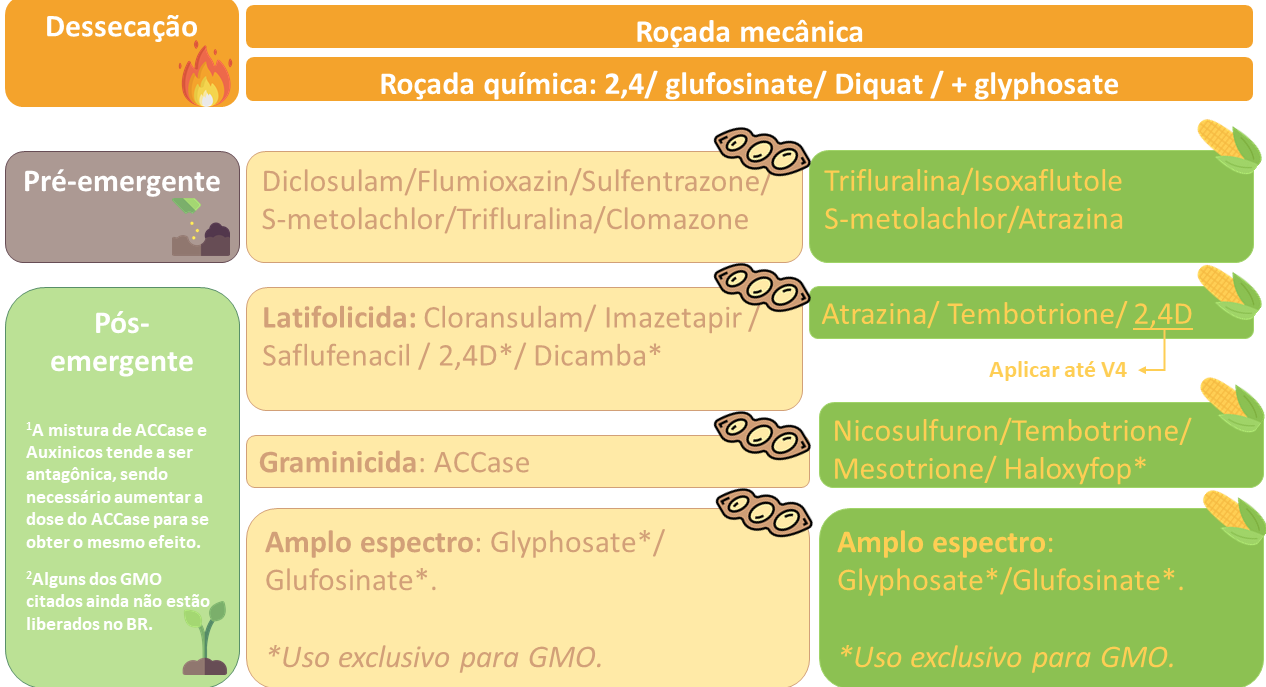
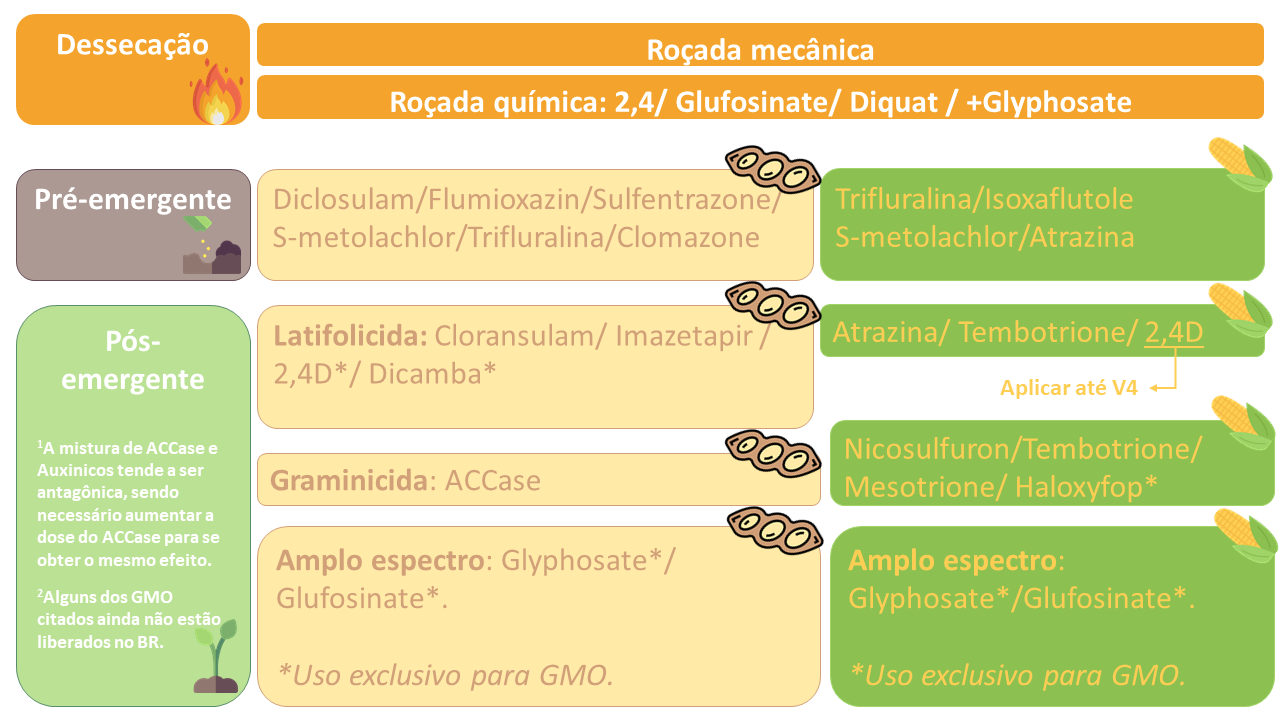
buva altura

Changed region(s): [[0.0, 0.0, 1.0, 1.0], [0.0616, 0.4585, 0.1232, 0.4891]]

diff --git a/docs/resistenceofweeds.html b/docs/resistenceofweeds.html
@@ -191,12 +191,16 @@ Yu, Qin, et al. 2015.
 ---
 class: inverse, middle
 
-# Manejo "Apaga fogo"  🔥
+# Manejo de plantas resistentes
 
 ---
+&lt;div align="center"&gt;
+&lt;img src="https://github.com/vitoranunciato/weedresistBR/blob/main/docs/resistenceofweeds_files/figure-html/selection_of_weeds/herbicidelist.png?raw=true" width=1000 height=600&gt;
+&lt;/div&gt;
+---
 #### Regra de ouro: "Não perca o ponto de controle"
-<div id="htmlwidget-55ab4c2116e765b9c126" style="width:792px;height:576px;" class="plotly html-widget"></div>
-<script type="application/json" data-for="htmlwidget-55ab4c2116e765b9c126">{"x":{"visdat":{"2c7049e73d14":["function () ","plotlyVisDat"]},"cur_data":"2c7049e73d14","attrs":{"2c7049e73d14":{"x":[100,96,63,22,100,94,81,38,100,91,70,32],"y":["2 leaves","> 5 leaves","> 10 leaves","reprodutive","2 leaves","> 5 leaves","> 10 leaves","reprodutive","2 leaves","> 5 leaves","> 10 leaves","reprodutive"],"text":["Comercial dose of ACCase","Comercial dose of ACCase","Comercial dose of ACCase","Comercial dose of ACCase","Comercial dose of ALS","Comercial dose of ALS","Comercial dose of ALS","Comercial dose of ALS","Comercial dose of ALS","Comercial dose of ALS","Comercial dose of ALS","Comercial dose of ALS"],"color":["E.indica","E.indica","E.indica","E.indica","A. hybridus","A. hybridus","A. hybridus","A. hybridus","E. heterophylla","E. heterophylla","E. heterophylla","E. heterophylla"],"alpha_stroke":1,"sizes":[10,100],"spans":[1,20],"type":"bar"}},"layout":{"margin":{"b":40,"l":60,"t":25,"r":10},"title":"Control of weed based in stage of spray","xaxis":{"domain":[0,1],"automargin":true,"title":"Control (%)"},"yaxis":{"domain":[0,1],"automargin":true,"title":"Stage","type":"category","categoryorder":"array","categoryarray":["2 leaves","> 5 leaves","> 10 leaves","reprodutive"]},"hovermode":"closest","showlegend":true},"source":"A","config":{"showSendToCloud":false},"data":[{"x":[100,94,81,38],"y":["2 leaves","> 5 leaves","> 10 leaves","reprodutive"],"text":["Comercial dose of ALS","Comercial dose of ALS","Comercial dose of ALS","Comercial dose of ALS"],"type":"bar","orientation":"h","name":"A. hybridus","marker":{"color":"rgba(102,194,165,1)","line":{"color":"rgba(102,194,165,1)"}},"textfont":{"color":"rgba(102,194,165,1)"},"error_y":{"color":"rgba(102,194,165,1)"},"error_x":{"color":"rgba(102,194,165,1)"},"xaxis":"x","yaxis":"y","frame":null},{"x":[100,91,70,32],"y":["2 leaves","> 5 leaves","> 10 leaves","reprodutive"],"text":["Comercial dose of ALS","Comercial dose of ALS","Comercial dose of ALS","Comercial dose of ALS"],"type":"bar","orientation":"h","name":"E. heterophylla","marker":{"color":"rgba(252,141,98,1)","line":{"color":"rgba(252,141,98,1)"}},"textfont":{"color":"rgba(252,141,98,1)"},"error_y":{"color":"rgba(252,141,98,1)"},"error_x":{"color":"rgba(252,141,98,1)"},"xaxis":"x","yaxis":"y","frame":null},{"x":[100,96,63,22],"y":["2 leaves","> 5 leaves","> 10 leaves","reprodutive"],"text":["Comercial dose of ACCase","Comercial dose of ACCase","Comercial dose of ACCase","Comercial dose of ACCase"],"type":"bar","orientation":"h","name":"E.indica","marker":{"color":"rgba(141,160,203,1)","line":{"color":"rgba(141,160,203,1)"}},"textfont":{"color":"rgba(141,160,203,1)"},"error_y":{"color":"rgba(141,160,203,1)"},"error_x":{"color":"rgba(141,160,203,1)"},"xaxis":"x","yaxis":"y","frame":null}],"highlight":{"on":"plotly_click","persistent":false,"dynamic":false,"selectize":false,"opacityDim":0.2,"selected":{"opacity":1},"debounce":0},"shinyEvents":["plotly_hover","plotly_click","plotly_selected","plotly_relayout","plotly_brushed","plotly_brushing","plotly_clickannotation","plotly_doubleclick","plotly_deselect","plotly_afterplot","plotly_sunburstclick"],"base_url":"https://plot.ly"},"evals":[],"jsHooks":[]}</script>
+<div id="htmlwidget-4d639f1a6a2fa8f09130" style="width:792px;height:576px;" class="plotly html-widget"></div>
+<script type="application/json" data-for="htmlwidget-4d639f1a6a2fa8f09130">{"x":{"visdat":{"2c702d0d2607":["function () ","plotlyVisDat"]},"cur_data":"2c702d0d2607","attrs":{"2c702d0d2607":{"x":[100,96,63,22,100,94,81,38,100,91,70,32],"y":["2 leaves","> 5 leaves","> 10 leaves","reprodutive","2 leaves","> 5 leaves","> 10 leaves","reprodutive","2 leaves","> 5 leaves","> 10 leaves","reprodutive"],"text":["Comercial dose of ACCase","Comercial dose of ACCase","Comercial dose of ACCase","Comercial dose of ACCase","Comercial dose of ALS","Comercial dose of ALS","Comercial dose of ALS","Comercial dose of ALS","Comercial dose of ALS","Comercial dose of ALS","Comercial dose of ALS","Comercial dose of ALS"],"color":["E.indica","E.indica","E.indica","E.indica","A. hybridus","A. hybridus","A. hybridus","A. hybridus","E. heterophylla","E. heterophylla","E. heterophylla","E. heterophylla"],"alpha_stroke":1,"sizes":[10,100],"spans":[1,20],"type":"bar"}},"layout":{"margin":{"b":40,"l":60,"t":25,"r":10},"title":"Control of weed based in stage of spray","xaxis":{"domain":[0,1],"automargin":true,"title":"Control (%)"},"yaxis":{"domain":[0,1],"automargin":true,"title":"Stage","type":"category","categoryorder":"array","categoryarray":["2 leaves","> 5 leaves","> 10 leaves","reprodutive"]},"hovermode":"closest","showlegend":true},"source":"A","config":{"showSendToCloud":false},"data":[{"x":[100,94,81,38],"y":["2 leaves","> 5 leaves","> 10 leaves","reprodutive"],"text":["Comercial dose of ALS","Comercial dose of ALS","Comercial dose of ALS","Comercial dose of ALS"],"type":"bar","orientation":"h","name":"A. hybridus","marker":{"color":"rgba(102,194,165,1)","line":{"color":"rgba(102,194,165,1)"}},"textfont":{"color":"rgba(102,194,165,1)"},"error_y":{"color":"rgba(102,194,165,1)"},"error_x":{"color":"rgba(102,194,165,1)"},"xaxis":"x","yaxis":"y","frame":null},{"x":[100,91,70,32],"y":["2 leaves","> 5 leaves","> 10 leaves","reprodutive"],"text":["Comercial dose of ALS","Comercial dose of ALS","Comercial dose of ALS","Comercial dose of ALS"],"type":"bar","orientation":"h","name":"E. heterophylla","marker":{"color":"rgba(252,141,98,1)","line":{"color":"rgba(252,141,98,1)"}},"textfont":{"color":"rgba(252,141,98,1)"},"error_y":{"color":"rgba(252,141,98,1)"},"error_x":{"color":"rgba(252,141,98,1)"},"xaxis":"x","yaxis":"y","frame":null},{"x":[100,96,63,22],"y":["2 leaves","> 5 leaves","> 10 leaves","reprodutive"],"text":["Comercial dose of ACCase","Comercial dose of ACCase","Comercial dose of ACCase","Comercial dose of ACCase"],"type":"bar","orientation":"h","name":"E.indica","marker":{"color":"rgba(141,160,203,1)","line":{"color":"rgba(141,160,203,1)"}},"textfont":{"color":"rgba(141,160,203,1)"},"error_y":{"color":"rgba(141,160,203,1)"},"error_x":{"color":"rgba(141,160,203,1)"},"xaxis":"x","yaxis":"y","frame":null}],"highlight":{"on":"plotly_click","persistent":false,"dynamic":false,"selectize":false,"opacityDim":0.2,"selected":{"opacity":1},"debounce":0},"shinyEvents":["plotly_hover","plotly_click","plotly_selected","plotly_relayout","plotly_brushed","plotly_brushing","plotly_clickannotation","plotly_doubleclick","plotly_deselect","plotly_afterplot","plotly_sunburstclick"],"base_url":"https://plot.ly"},"evals":[],"jsHooks":[]}</script>
 
 ---
 ## 2 folhas
